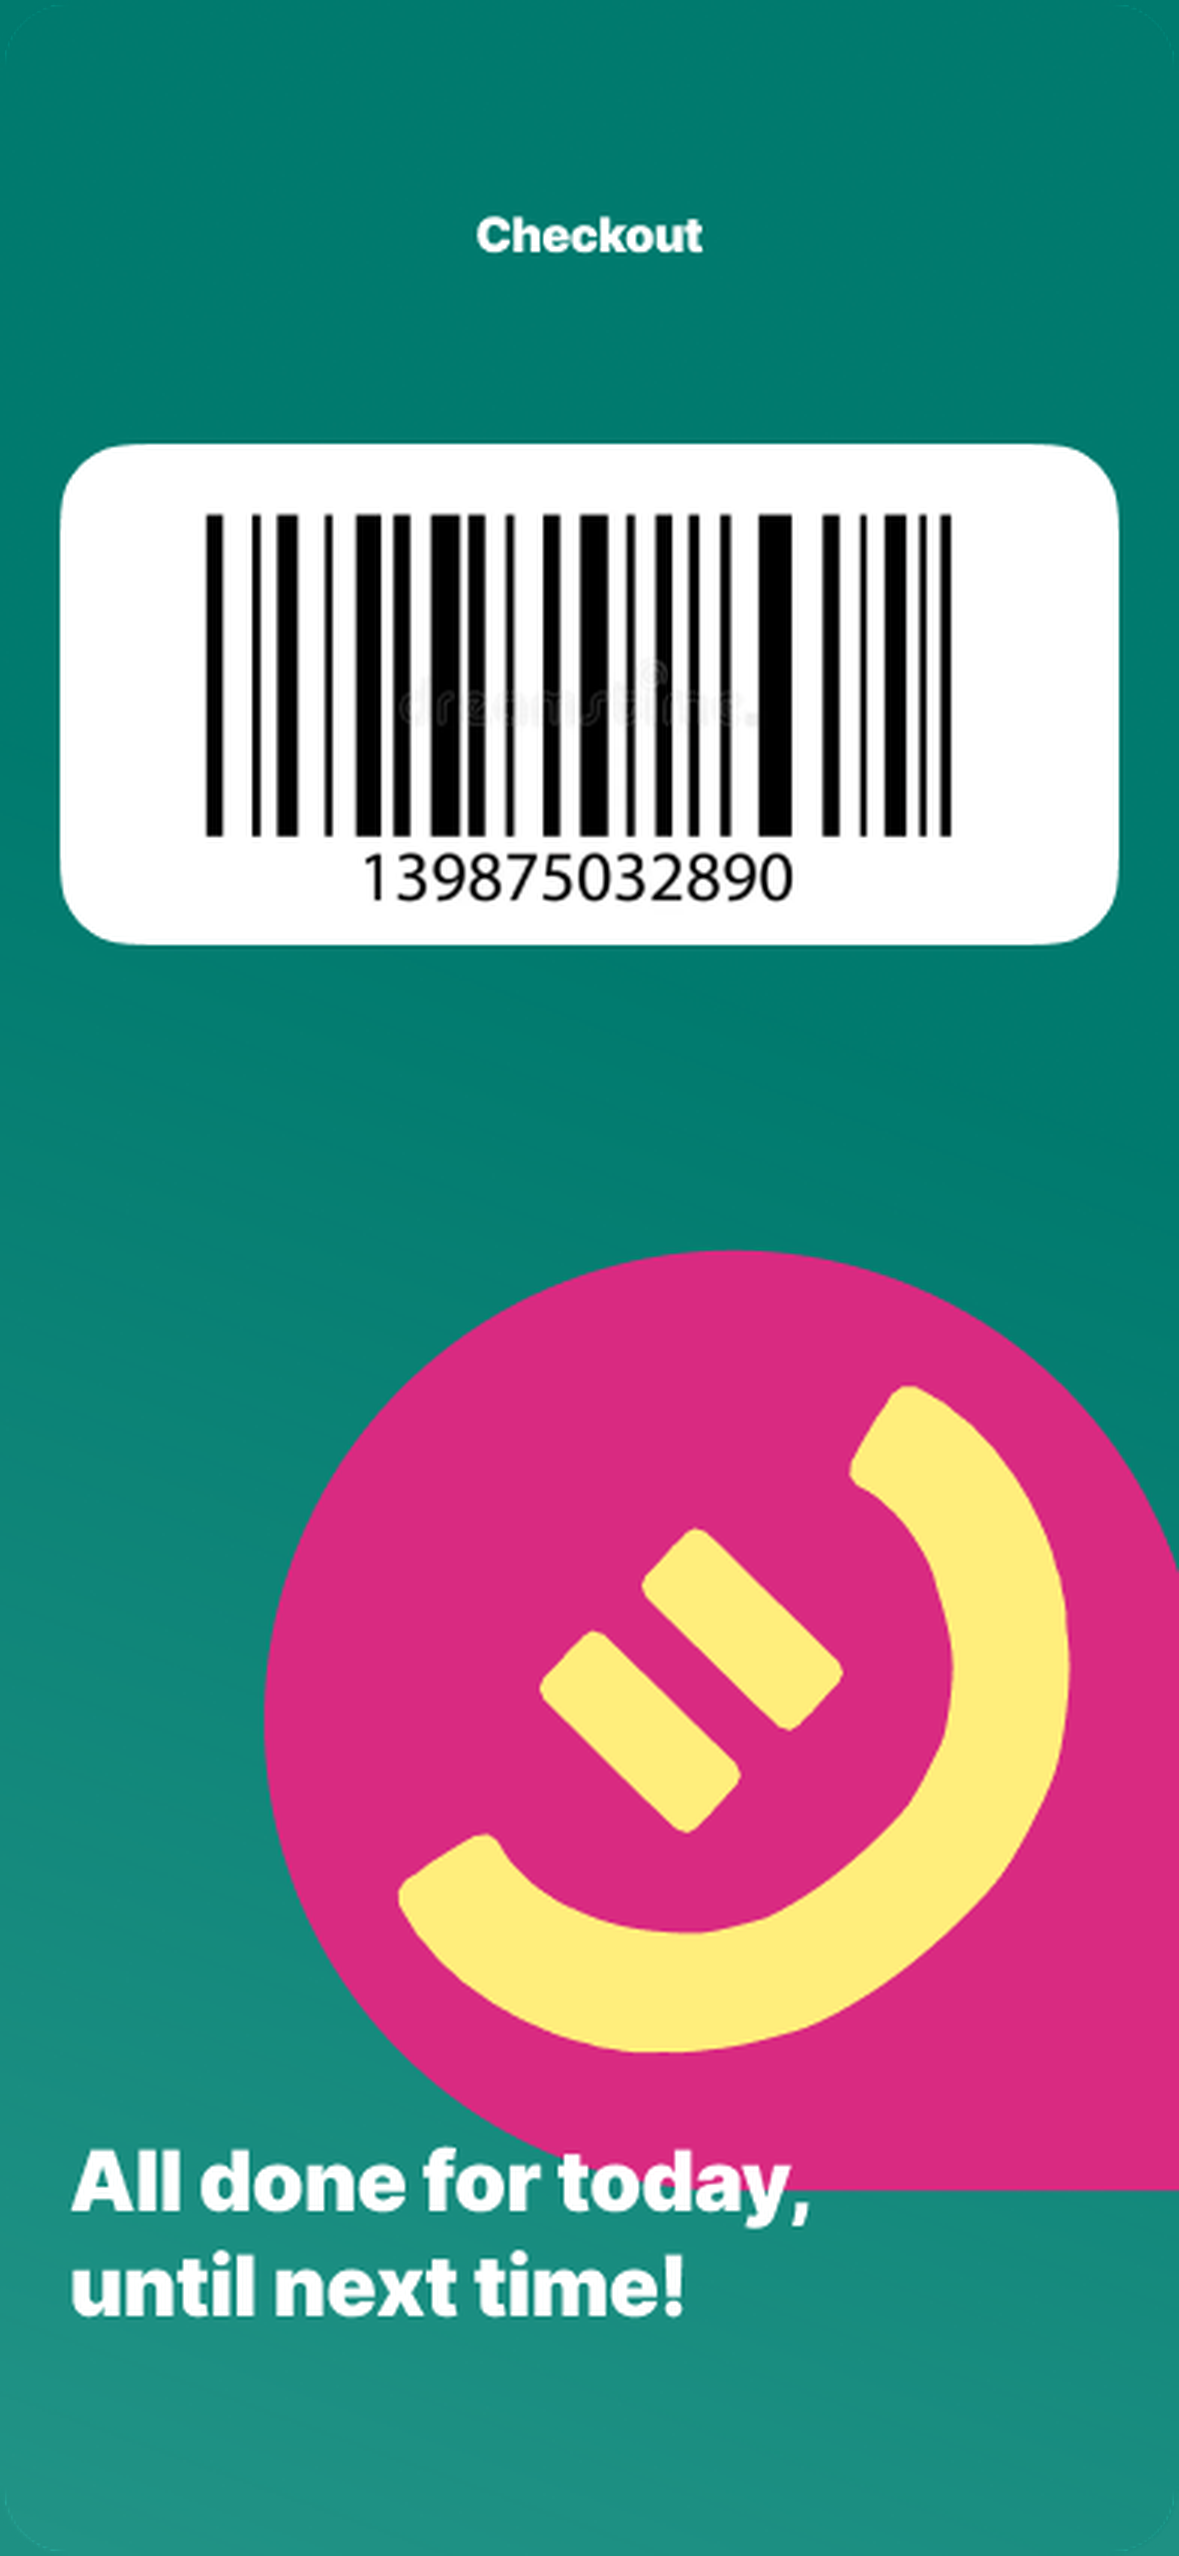
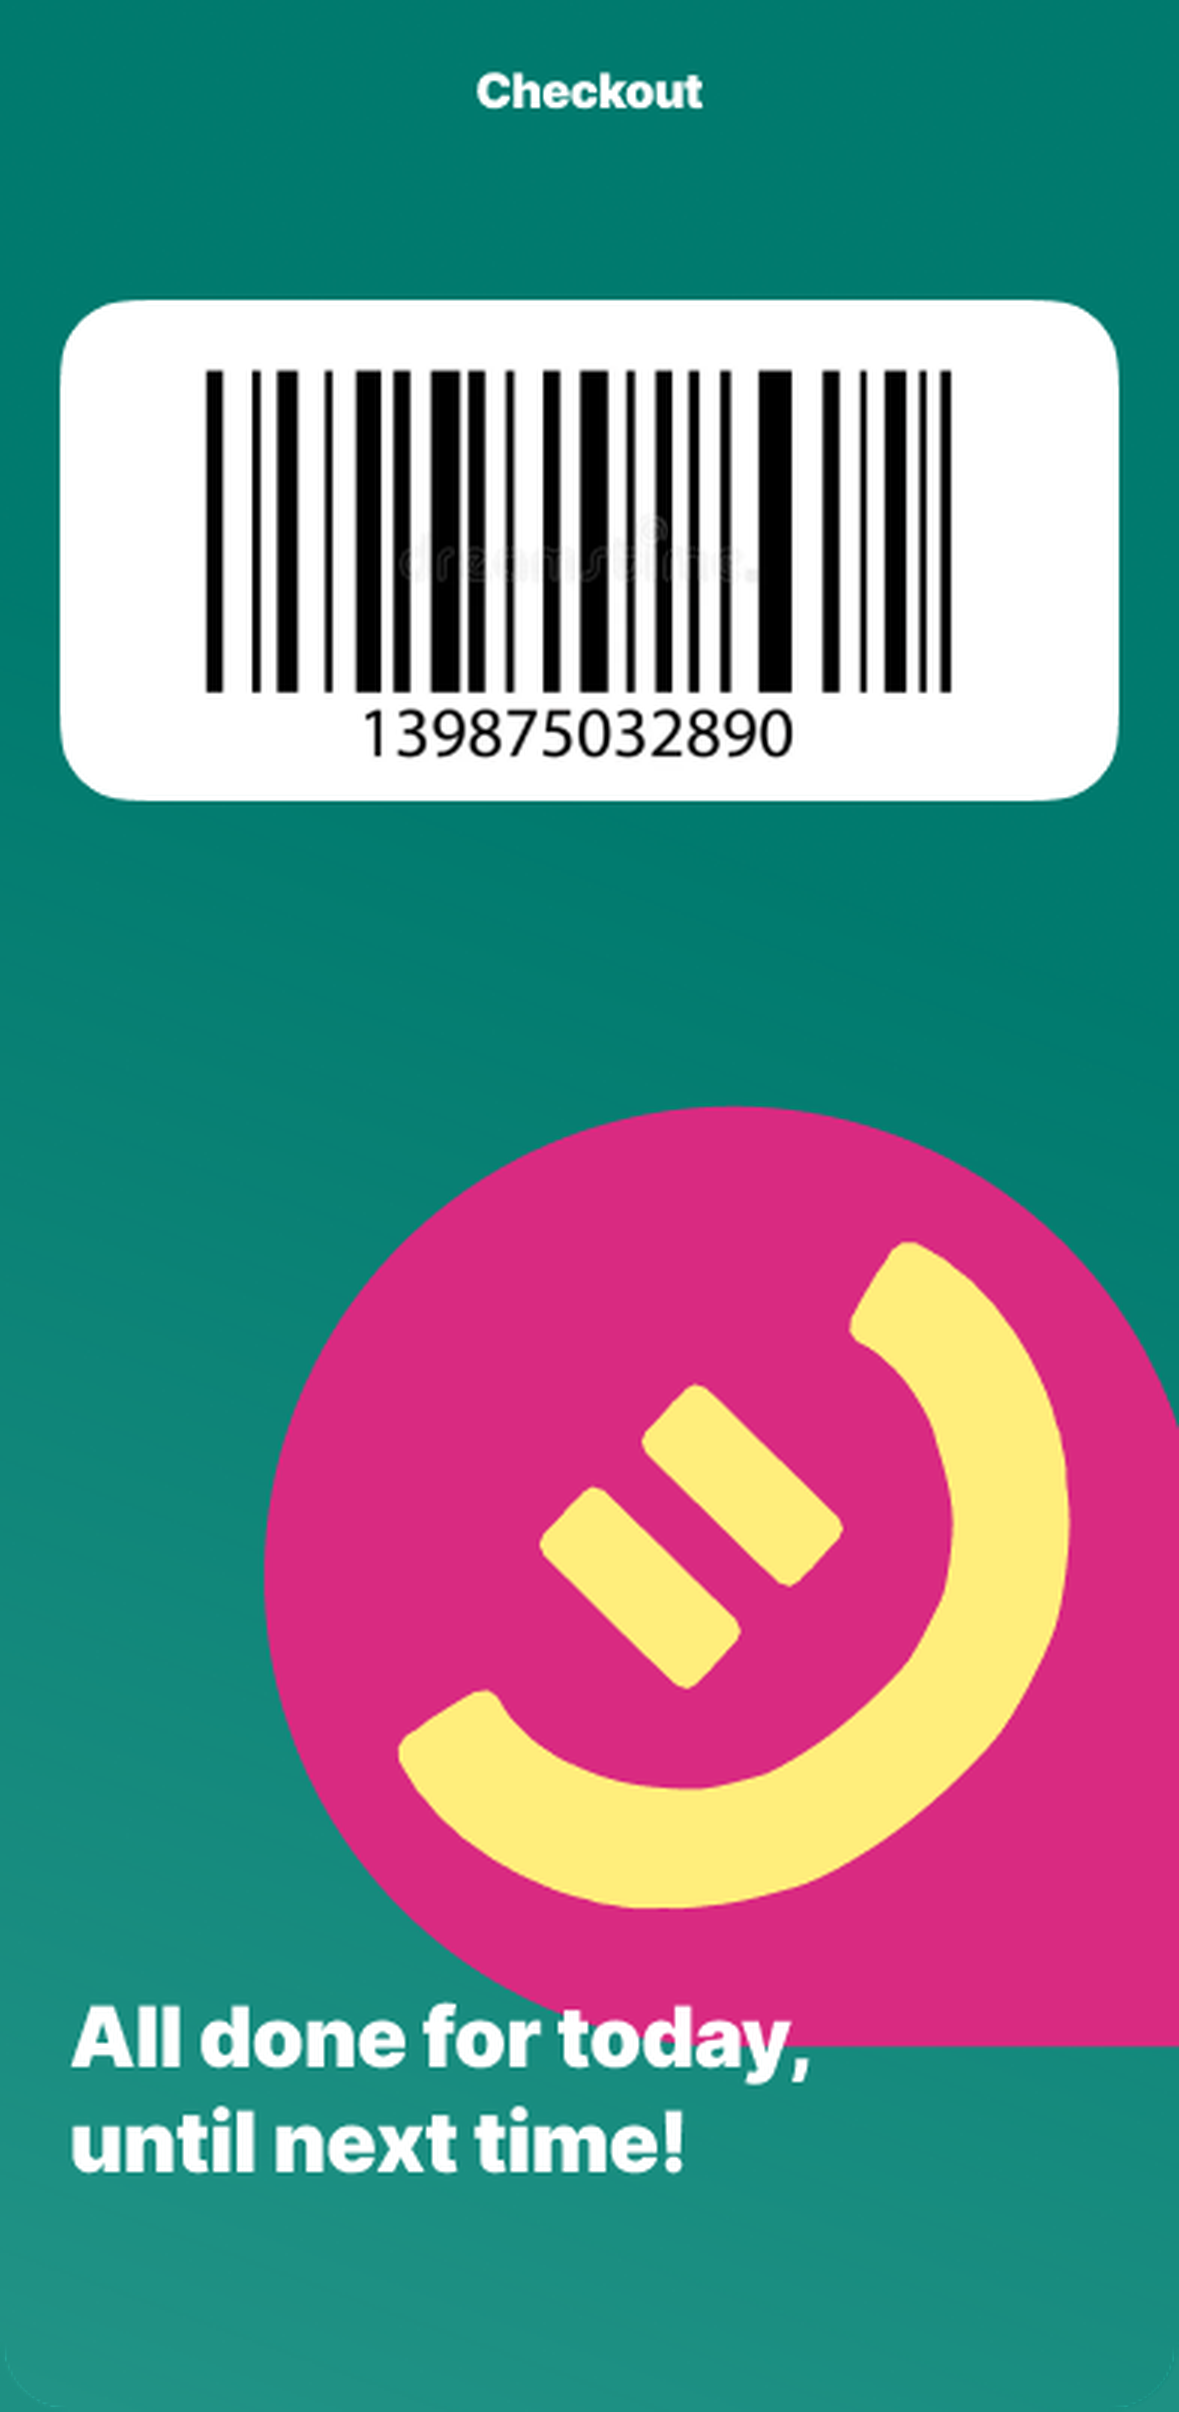
Align PWA screens to installed viewport

Changed region(s): [[0.0611, 0.4353, 1.0, 0.9328], [0.0305, 0.0311, 0.9771, 0.2177], [0.0305, 0.2799, 0.9771, 0.3731]]

diff --git a/src/App.tsx b/src/App.tsx
@@ -15,7 +15,8 @@ type PrototypeMode = 'browser' | 'pwa';
 const browserDesignWidth = 393;
 const browserDesignHeight = 804;
 const pwaDesignWidth = 393;
-const pwaDesignHeight = 852;
+const pwaDesignHeight = 804;
+const pwaCropTop = 48;
 
 const pwaScreenImages = [
   new URL('./assets/pwa/screen-01.png', import.meta.url).href,
@@ -490,7 +491,10 @@ const pwaScreens: Screen[] = pwaScreenImages.map((image, index) => ({
   id: pwaScreenId(index + 1),
   title: `Screen ${String(index + 1).padStart(2, '0')}`,
   image,
-  hotspots: pwaHotspots[index] ?? [],
+  hotspots: (pwaHotspots[index] ?? []).map((hotspot) => ({
+    ...hotspot,
+    top: Math.max(hotspot.top - pwaCropTop, 0),
+  })),
 }));
 
 const preloadImageSources = Array.from(
